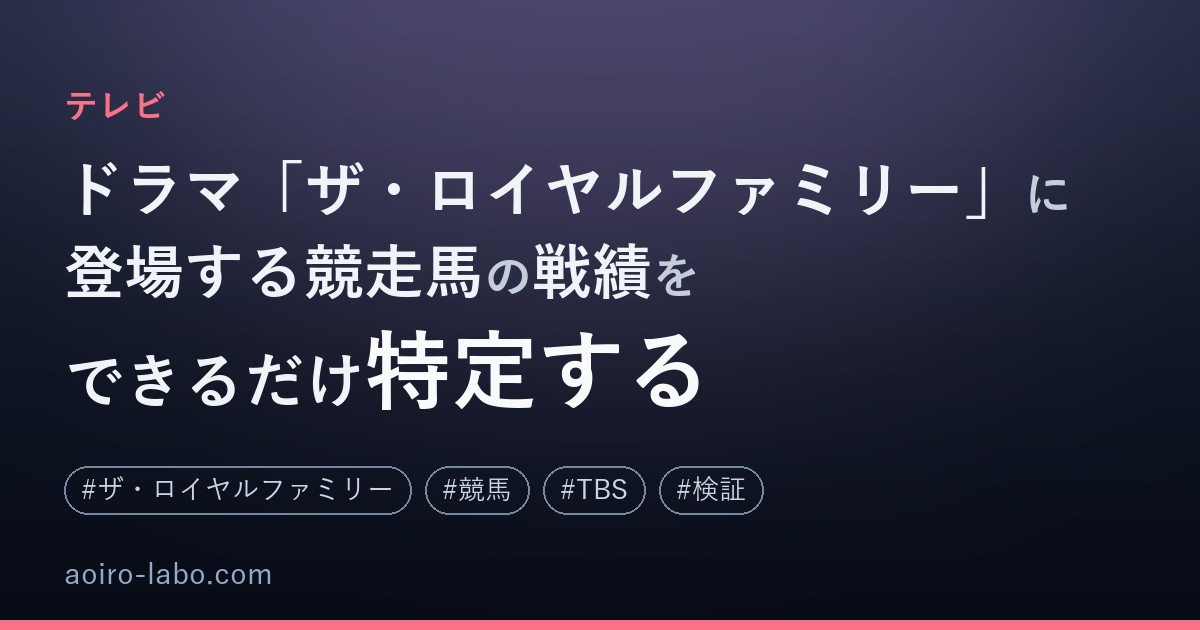
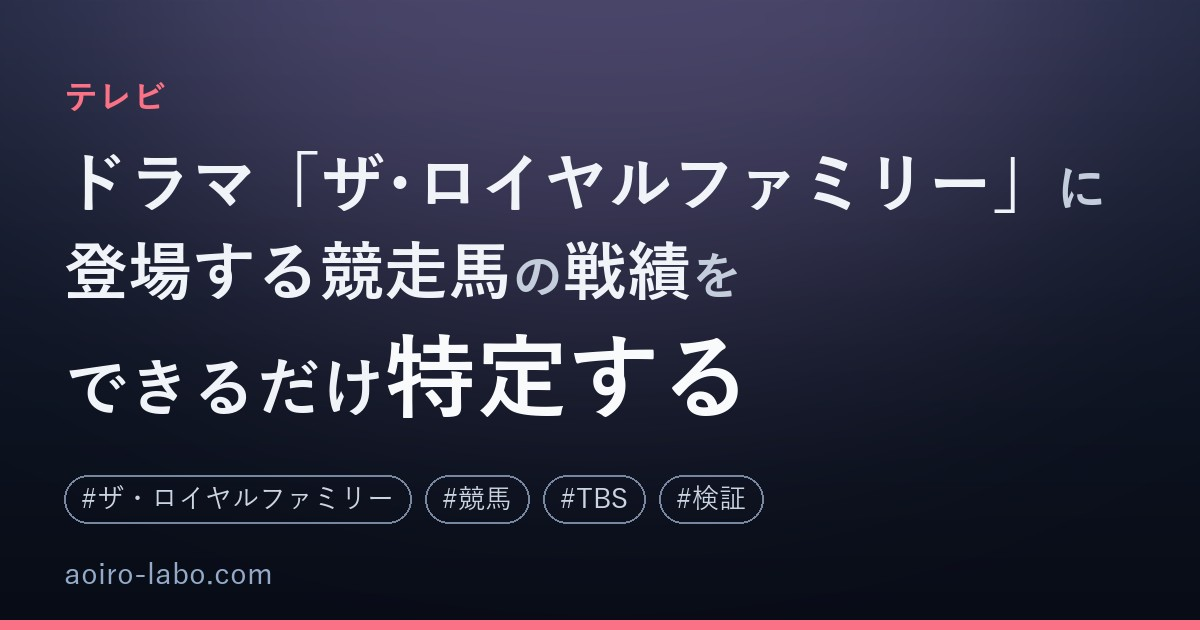
カバー：中黒を半角にし、複合助詞は直前で区切って小さく戻す

diff --git a/tools/generate_cover.py b/tools/generate_cover.py
@@ -115,19 +115,10 @@ def classify(atoms, emph, hero):
         if forced=='sub':
             emit(a,'sub'); continue
         if a in COMPOUND:
-            if out and out[-1][1]=='base' and out[-1][0].endswith(NOSPLIT_END):
-                t0,c0,g0 = out[-1]
-                out[-1] = (t0+a, c0, g0)
-            else:
-                emit(a,'sub',glue=True)
-            continue
+            emit(a,'sub',glue=True); continue
         _pref = next((c for c in COMPOUND if a.startswith(c) and len(a)>len(c)), None)
         if _pref:
-            if out and out[-1][1]=='base' and out[-1][0].endswith(NOSPLIT_END):
-                t0,c0,g0 = out[-1]
-                out[-1] = (t0+_pref, c0, g0)
-            else:
-                emit(_pref,'sub',glue=True)
+            emit(_pref,'sub',glue=True)
             a = a[len(_pref):]
             if a in emph:
                 emit(a,'accent'); continue
@@ -187,7 +178,7 @@ def layout(items, widths, maxw, maxlines, balance_last=False, min_fill=0.0):
             if j<n-1:
                 if items[j+1][2]:  # next is glue: cannot break here
                     continue
-                if items[j][0].endswith('・'):  # never break right after a nakaguro
+                if items[j][0].endswith(('・','･')):  # never break right after a nakaguro
                     continue
                 slack=maxw-w
                 cost=slack*slack/700.0
@@ -352,6 +343,7 @@ def make(path, out, hero_override=None, emphasis_override=None):
     if emphasis_override is not None: emph = emphasis_override
     disp = title.replace('（','(').replace('）',')')
     bracket, disp = split_bracket_prefix(disp)
+    disp = disp.replace('・', '･')
     bracket_h = 30+22 if bracket else 0
     acc = accent_for(cat)
     img = background(acc)
